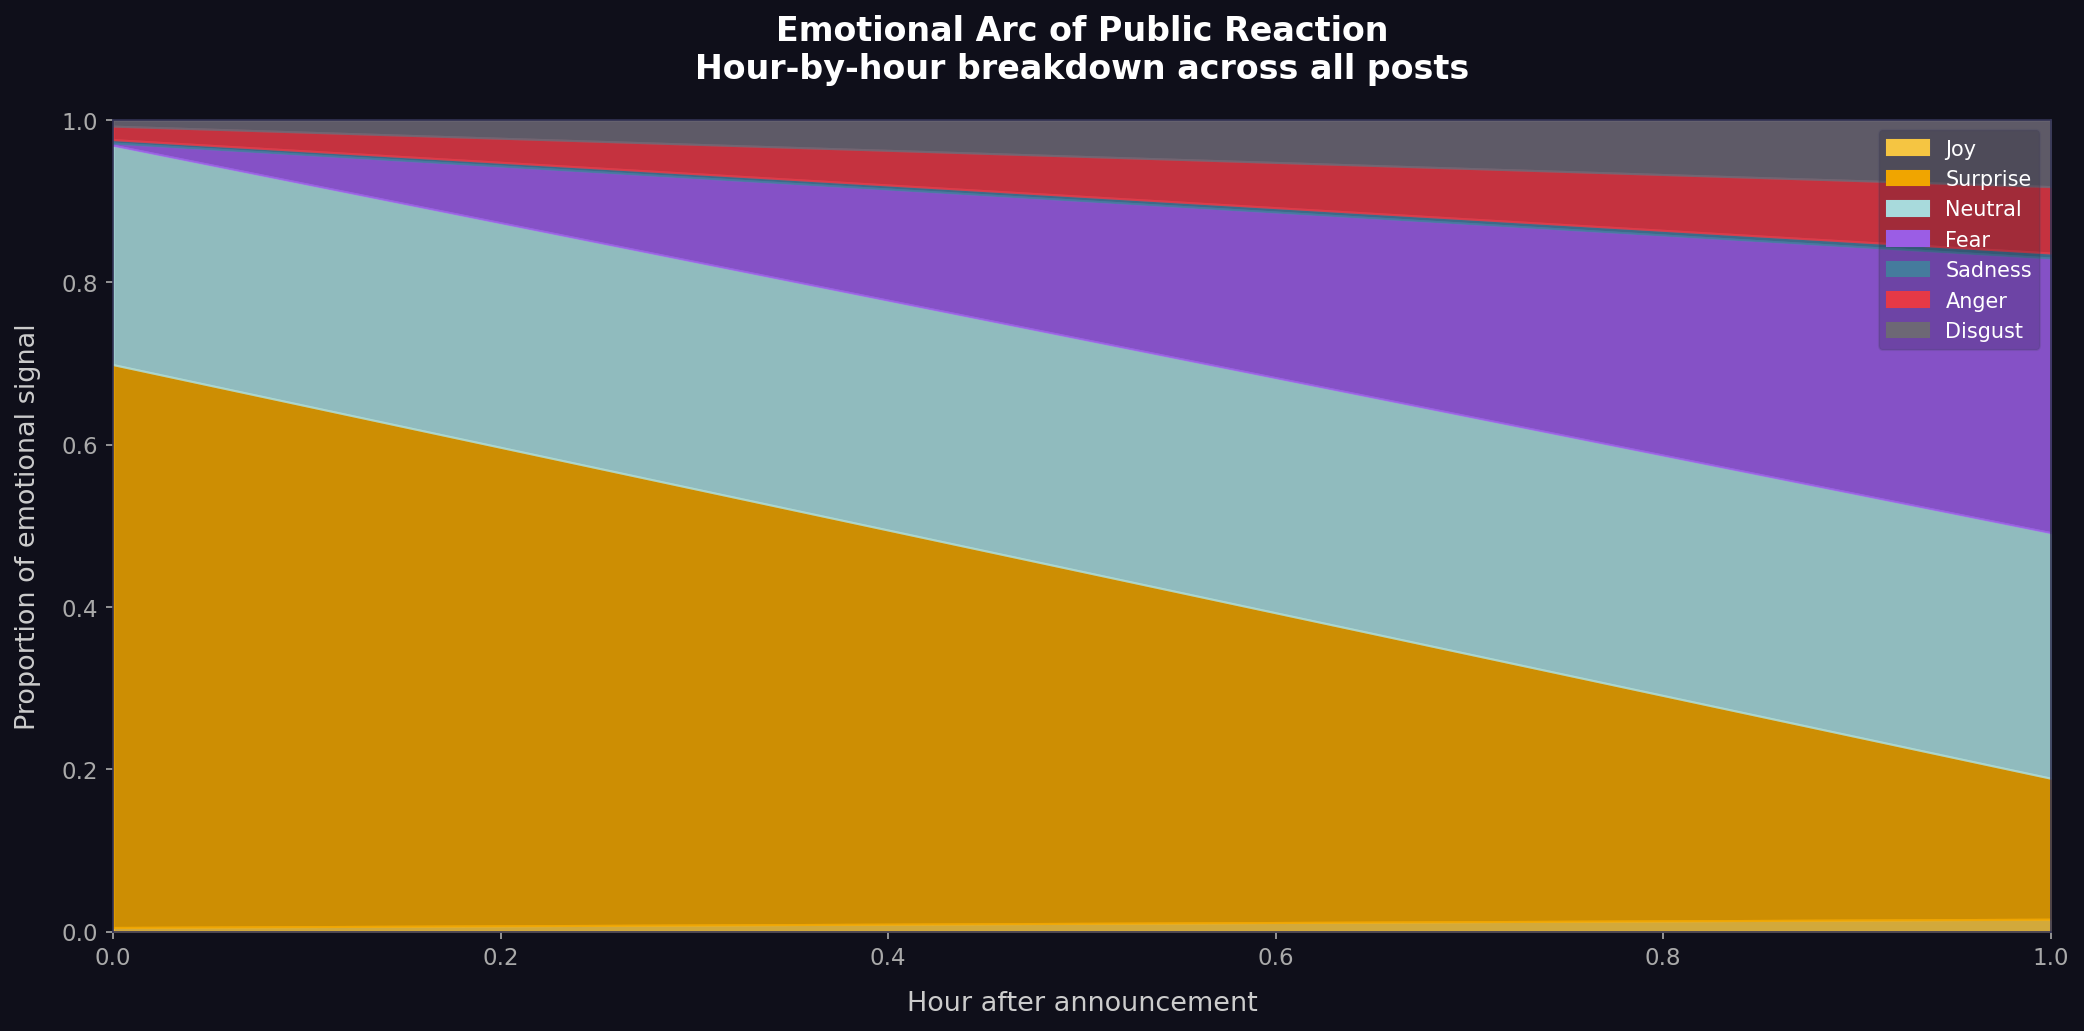
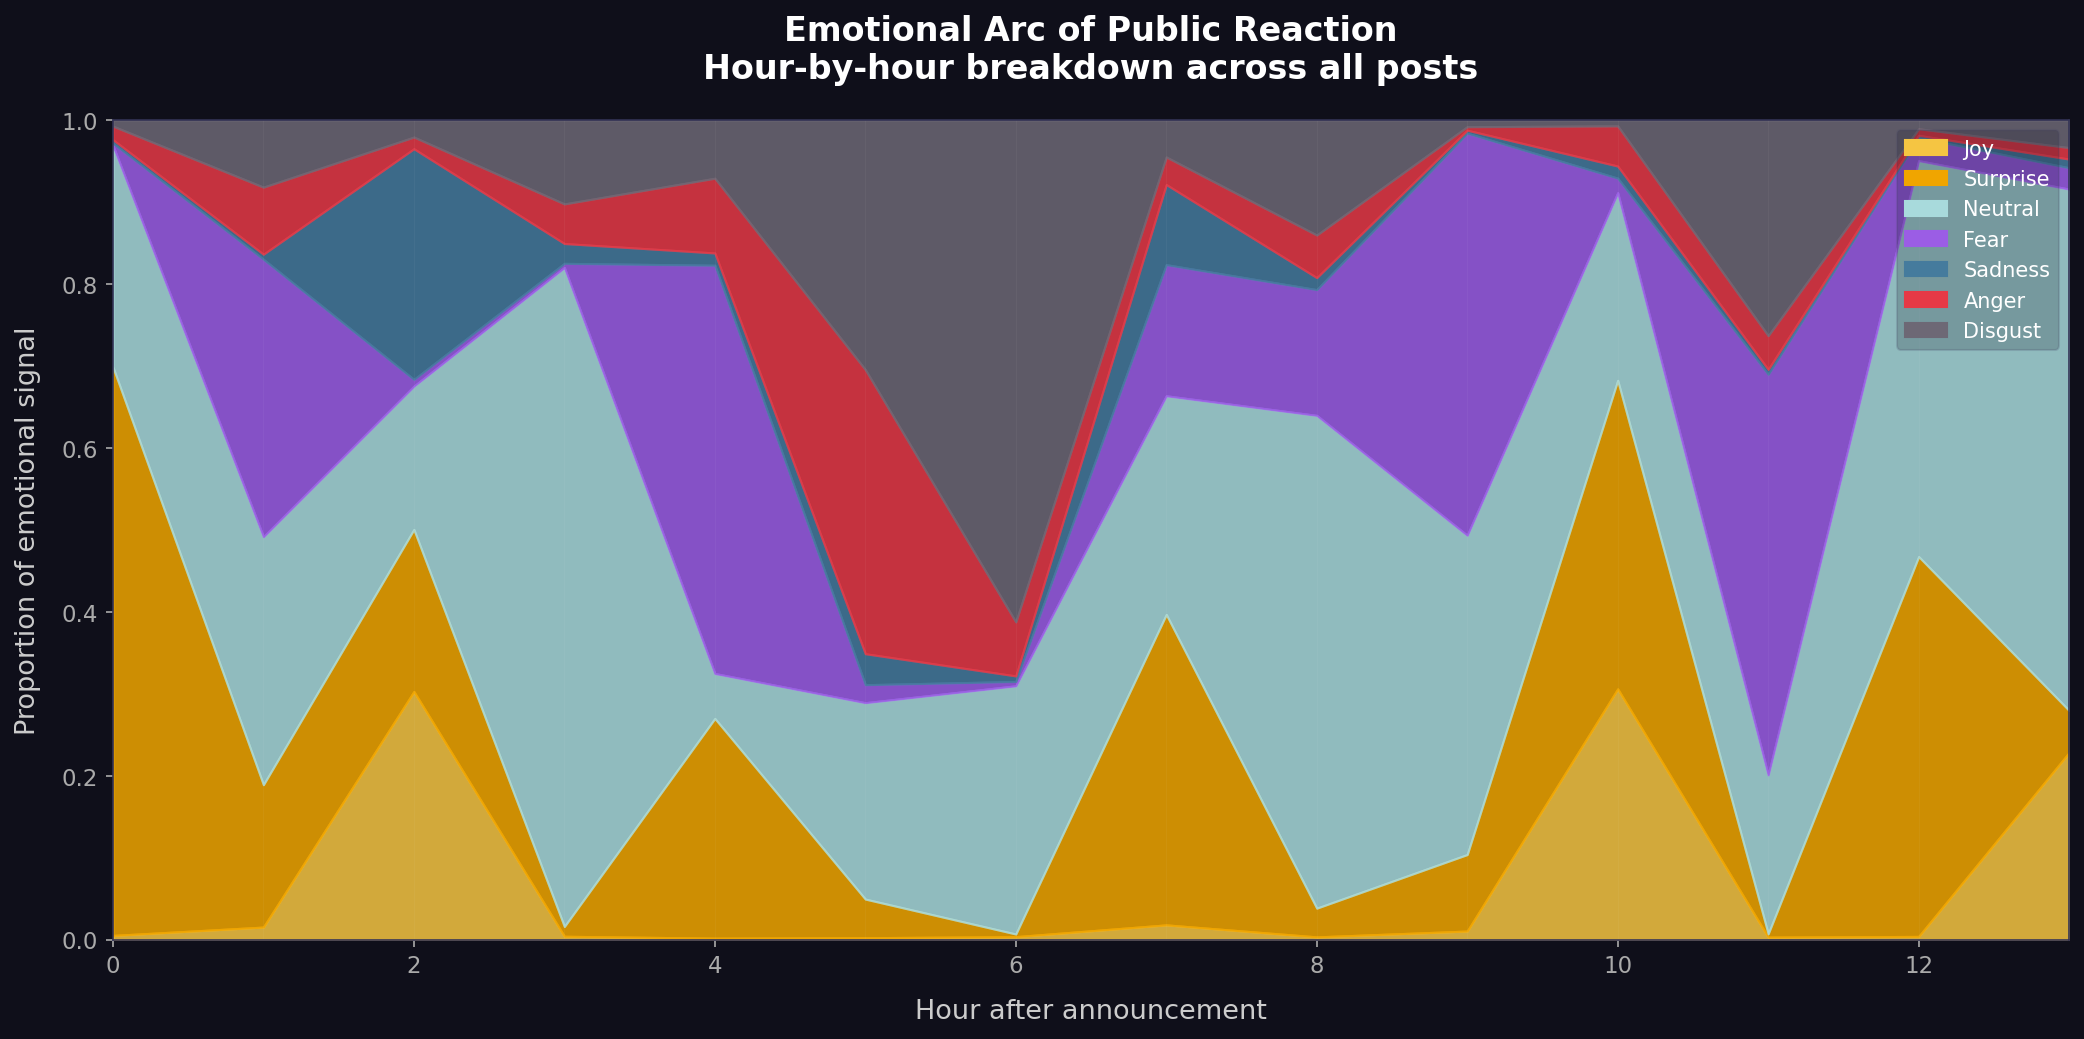
Fully functional Lexemotion

diff --git a/model/visualize.py b/model/visualize.py
@@ -126,7 +126,7 @@ def plot_sentiment_arc(hourly_data):
 
     hours = sorted(hourly_data.keys())
     x = np.array(hours)
-    y = np.array([hourly_data[h]["sentiment"] for h in hours])
+    y = np.array([hourly_data[h]["sentiment_score"] for h in hours])
     counts = [hourly_data[h]["post_count"] for h in hours]
 
     fig, ax = plt.subplots(figsize=(14, 5))
